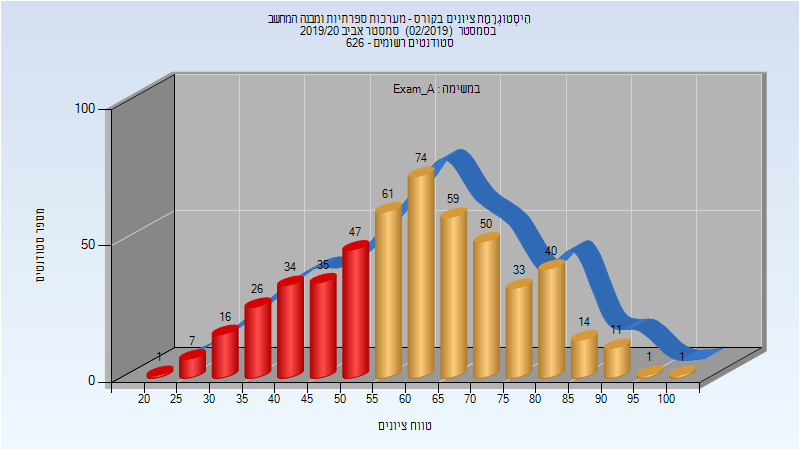
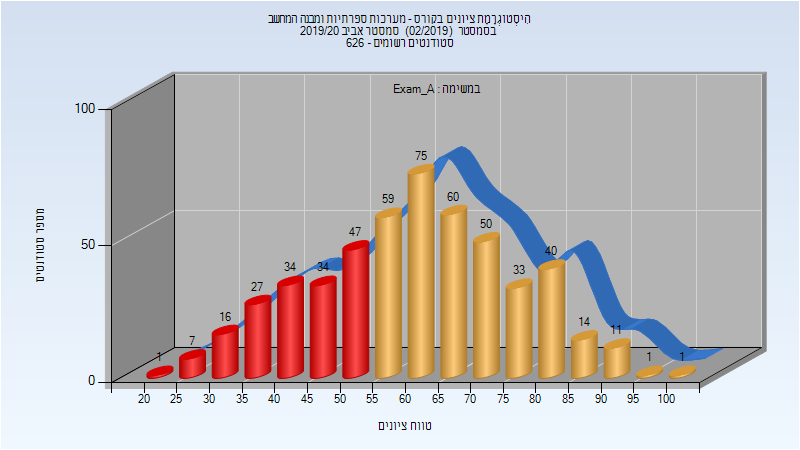
Deploy michael-maltsev/technion-histograms to github.com/michael-maltsev/technion-histograms.git:gh-pages

diff --git a/044252/index.html b/044252/index.html
@@ -788,7 +788,7 @@
 <td>67</td>
 <td>24</td>
 <td>100</td>
-<td>61.047</td>
+<td>61.057</td>
 <td>62</td>
 </tr>
 </tbody>
@@ -814,7 +814,7 @@
 <td>79</td>
 <td>24.72</td>
 <td>100</td>
-<td>72.445</td>
+<td>72.461</td>
 <td>78</td>
 </tr>
 </tbody>

diff --git a/044252/README.md b/044252/README.md
@@ -241,7 +241,7 @@
 
 | סטודנטים | עברו/נכשלו | אחוז עוברים | ציון מינימלי | ציון מקסימלי | ממוצע | חציון |
 | ---- | ---- | ---- | ---- | ---- | ---- | ---- |
-| 510 | 344/166 | 67 | 24 | 100 | 61.047 | 62 |
+| 510 | 344/166 | 67 | 24 | 100 | 61.057 | 62 |
 
 ### סופי מועד א'
 
@@ -249,5 +249,5 @@
 
 | סטודנטים | עברו/נכשלו | אחוז עוברים | ציון מינימלי | ציון מקסימלי | ממוצע | חציון |
 | ---- | ---- | ---- | ---- | ---- | ---- | ---- |
-| 510 | 404/106 | 79 | 24.72 | 100 | 72.445 | 78 |
+| 510 | 404/106 | 79 | 24.72 | 100 | 72.461 | 78 |
 
